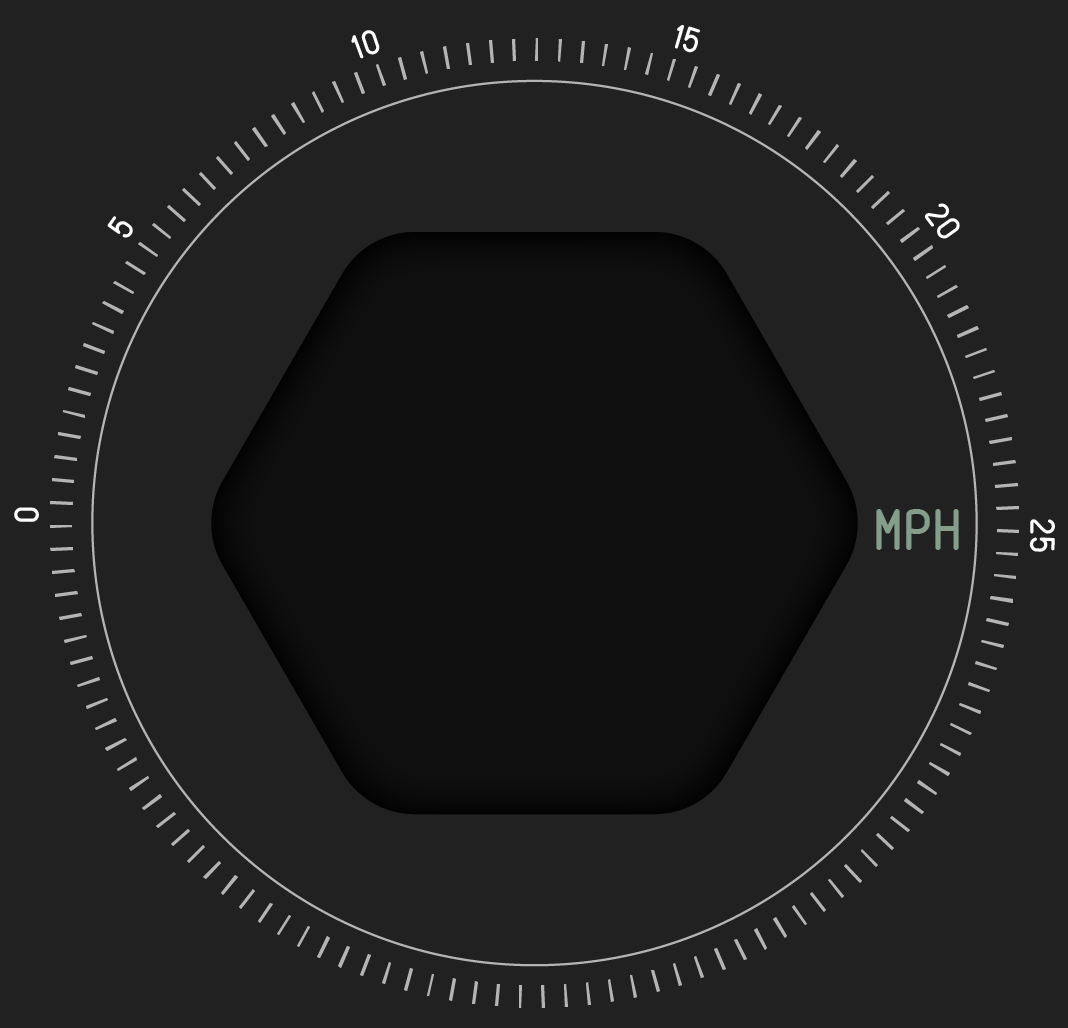
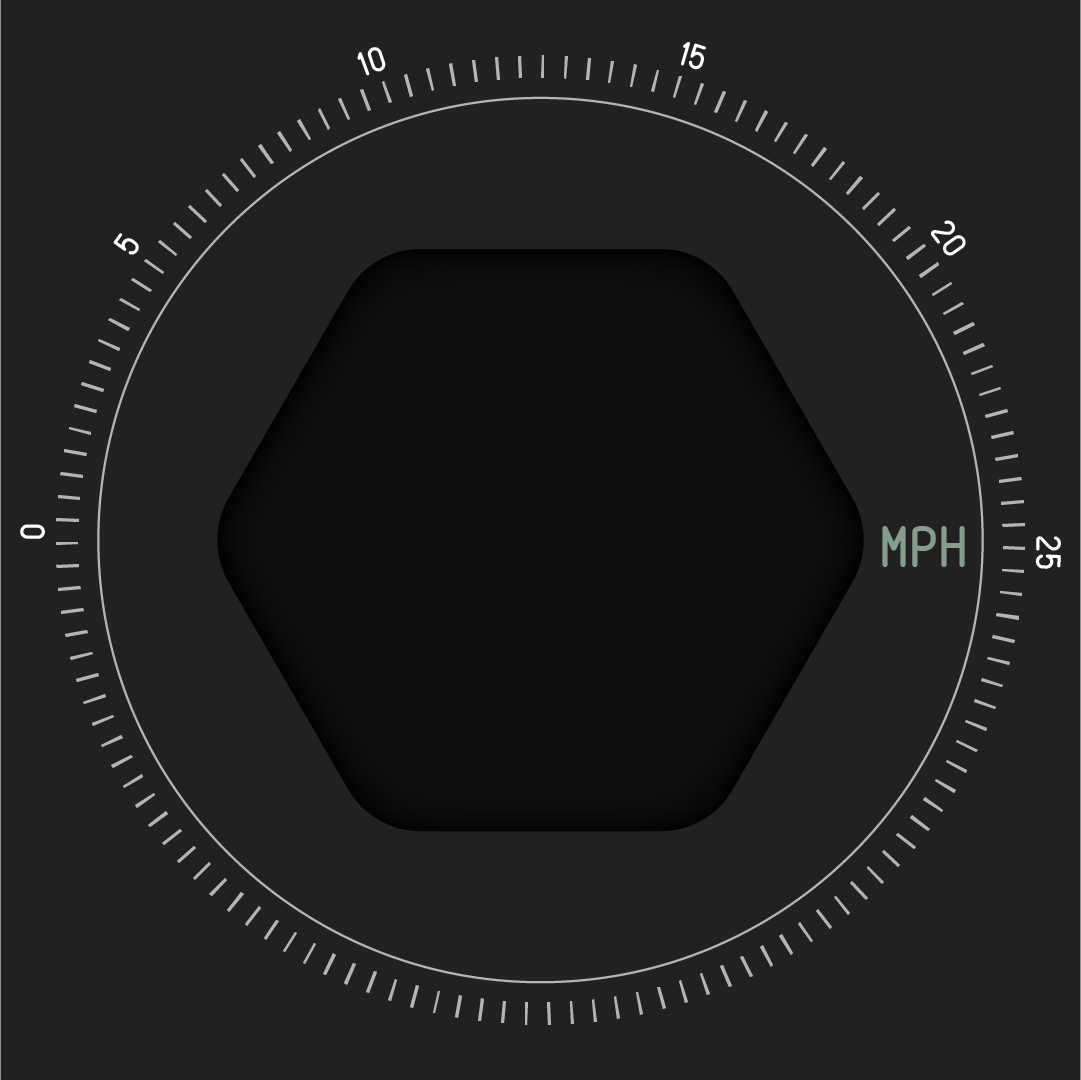
1. fix speedometer layout issue

diff --git a/ecoreco/DashboardViewController.swift b/ecoreco/DashboardViewController.swift
@@ -18,25 +18,16 @@ class DashboardViewController: UIViewController, UIScrollViewDelegate {
     
     let appDelegate = UIApplication.sharedApplication().delegate as! AppDelegate
     var layer:CALayer?
-    var testSpeedArray:[Int] = [10,14,16,19,20,23,22,15,9]
+    var testSpeedArray:[Int] = [0,0,1,1,3,3,5,5,10,14,16,19,20,23,22,15,9]
     
-    override func viewDidLoad() {
-        super.viewDidLoad()
- 
-        //set view bgcolor
-        self.view.backgroundColor = UIColor(
-            red: 0.33,
-            green: 0.33,
-            blue: 0.33,
-            alpha: 0.4)
-        
-        
+    override func viewDidAppear(animated: Bool) {
+        super.viewDidAppear(animated)
         // create init pointer image
         let pointerImage = UIImage(named: "pointer.png") as UIImage!
         layer = CALayer()
         let speedMeterStartX = (self.view.frame.width - imgViewSpeedMeter.frame.width)/2
-        let speedMeterStartY = imgViewSpeedMeter.frame.origin.y + imgViewSpeedMeter.bounds.height/2 - 24/2
-        layer?.frame = CGRectMake(speedMeterStartX,speedMeterStartY,imgViewSpeedMeter.bounds.width,24)
+        let speedMeterStartY = imgViewSpeedMeter.frame.origin.y + imgViewSpeedMeter.frame.height/2 - 35/2
+        layer?.frame = CGRectMake(speedMeterStartX,speedMeterStartY,imgViewSpeedMeter.frame.width,35)
         
         print("x: \(speedMeterStartX)")
         print("x: \(speedMeterStartY)")
@@ -51,7 +42,7 @@ class DashboardViewController: UIViewController, UIScrollViewDelegate {
         var rad:Float = deg / 180.0 * Float(M_PI)
         var rotation:CGAffineTransform = CGAffineTransformMakeRotation(CGFloat(rad))
         var speed:Int = 0
-
+        
         
         dispatch_async(dispatch_get_global_queue(priority, 0)){
             var i:Int = 0
@@ -76,6 +67,19 @@ class DashboardViewController: UIViewController, UIScrollViewDelegate {
                 }
             }
         }
+        
+    }
+    
+    override func viewDidLoad() {
+        super.viewDidLoad()
+ 
+        //set view bgcolor
+        self.view.backgroundColor = UIColor(
+            red: 0.33,
+            green: 0.33,
+            blue: 0.33,
+            alpha: 0.4)
+        
         
         
         self.navigationController?.setNavigationBarHidden(true, animated: true)
